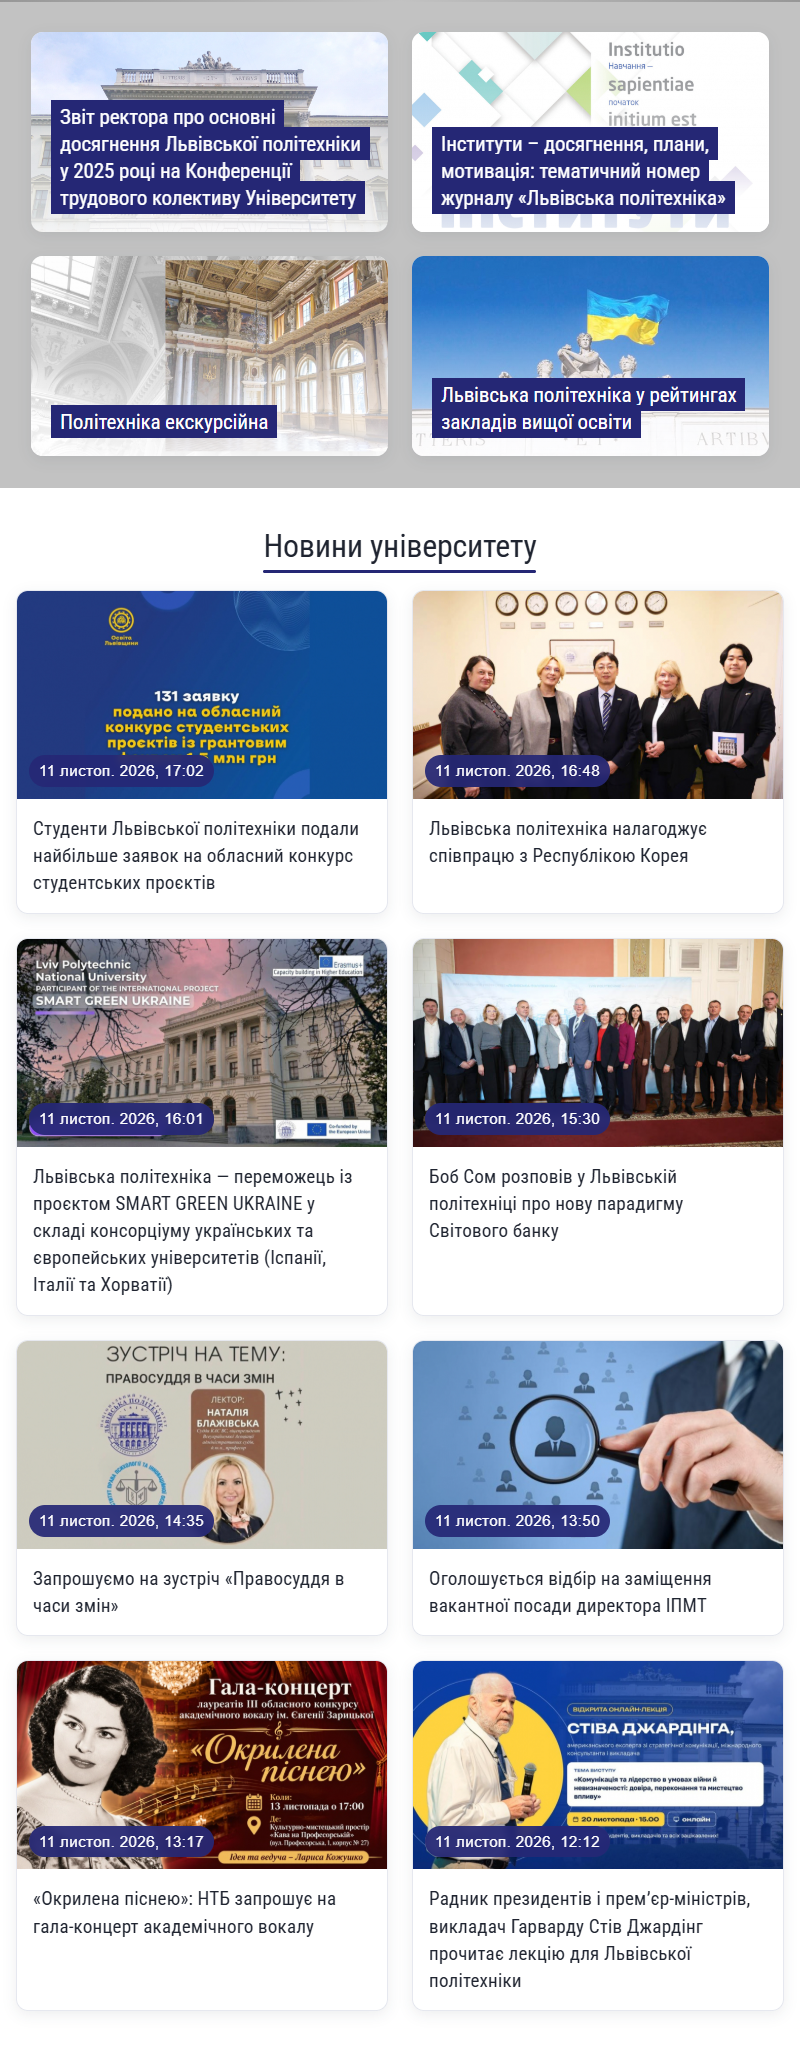
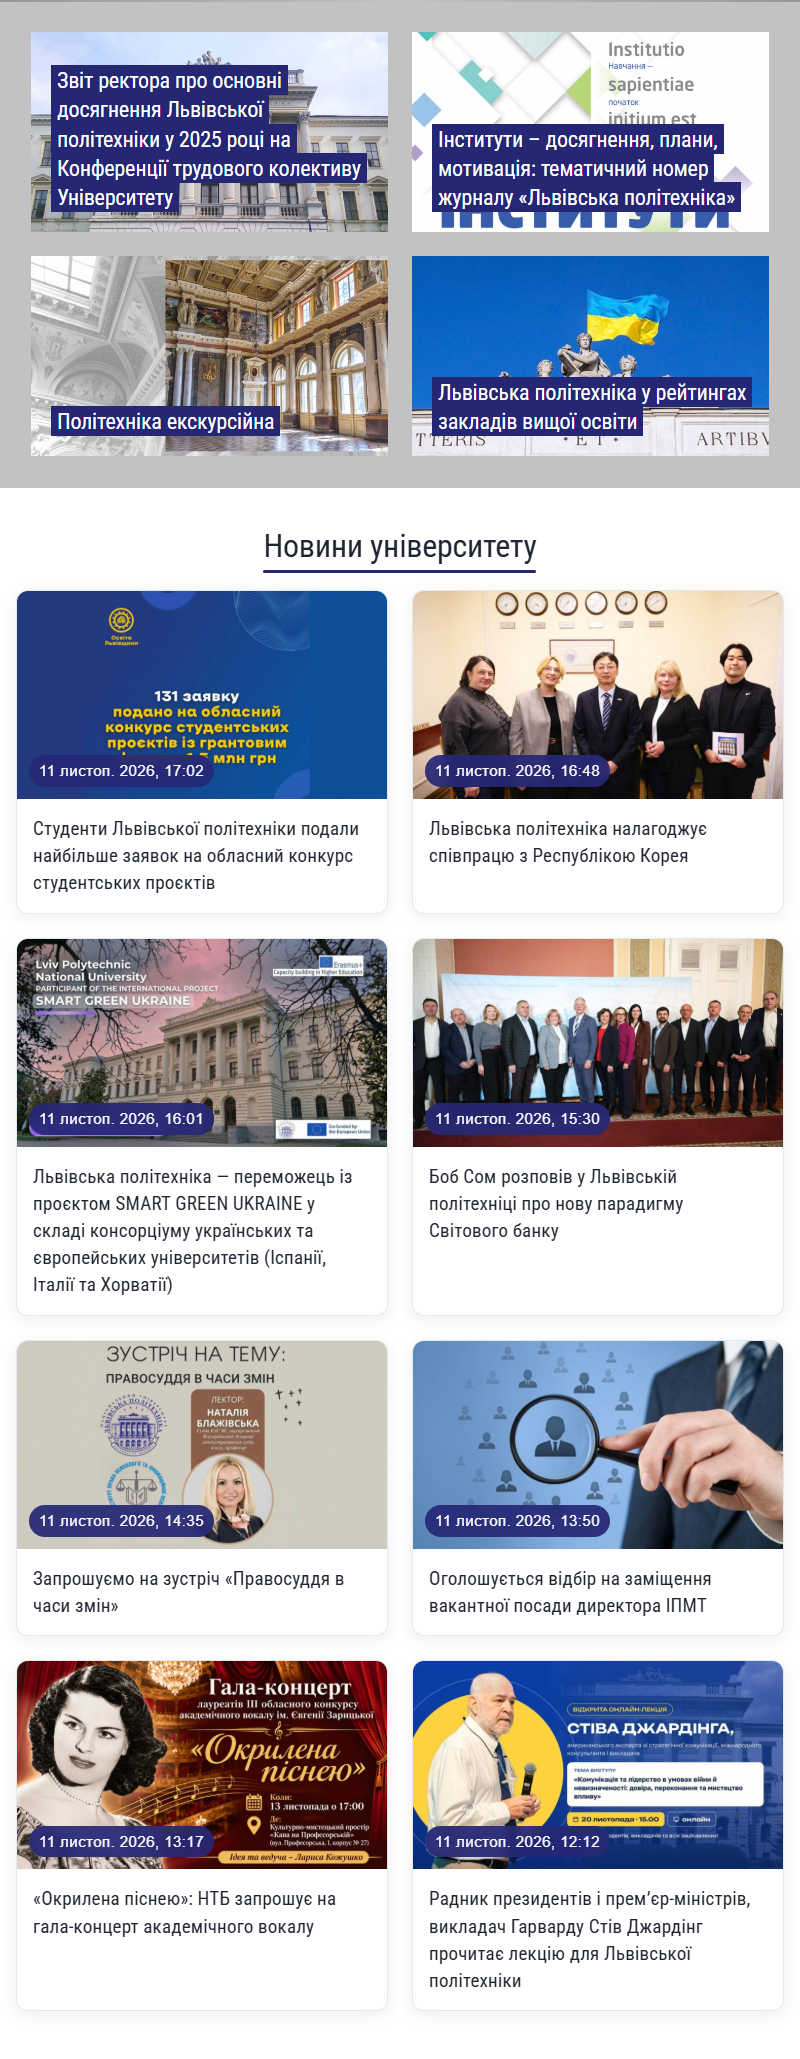
lab7: featured block as 2x2 grid, square cards like lpnu.ua

Changed region(s): [[0.0312, 0.0311, 0.9688, 0.2487]]

diff --git a/lab7/index.html b/lab7/index.html
@@ -6,6 +6,7 @@
     <meta name="viewport" content="width=device-width, initial-scale=1.0">
     <meta name="description" content="Новини, обрані матеріали та анонси Львівської політехніки.">
     <title>Новини Львівської політехніки</title>
+    <link rel="icon" href="data:,">
     <link rel="stylesheet" href="https://cdn.jsdelivr.net/npm/bootstrap@3.4.1/dist/css/bootstrap.min.css">
     <link rel="stylesheet"
         href="https://fonts.googleapis.com/css?family=Roboto+Condensed:regular,700&amp;subset=cyrillic,cyrillic-ext">
@@ -26,7 +27,6 @@
                        target="_blank" rel="noopener noreferrer">
                         <img src="img/featured-1.jpg" width="720" height="360"
                              alt="Фасад головного корпусу Львівської політехніки">
-                        <div class="shadow_featured" aria-hidden="true"></div>
                         <h2><span>Звіт ректора про основні досягнення Львівської політехніки у 2025 році на Конференції трудового колективу Університету</span></h2>
                     </a>
                 </article>
@@ -36,7 +36,6 @@
                        target="_blank" rel="noopener noreferrer">
                         <img src="img/featured-2.jpg" width="720" height="360"
                              alt="Заставка до тематичного номера журналу «Львівська політехніка»">
-                        <div class="shadow_featured" aria-hidden="true"></div>
                         <h2><span>Інститути – досягнення, плани, мотивація: тематичний номер журналу «Львівська політехніка»</span></h2>
                     </a>
                 </article>
@@ -44,7 +43,6 @@
                 <article class="featured-card">
                     <a href="https://lpnu.ua/news/politekhnika-ekskursiina" target="_blank" rel="noopener noreferrer">
                         <img src="img/featured-3.jpg" width="720" height="360" alt="Політехніка екскурсійна">
-                        <div class="shadow_featured" aria-hidden="true"></div>
                         <h2><span>Політехніка екскурсійна</span></h2>
                     </a>
                 </article>
@@ -54,7 +52,6 @@
                        target="_blank" rel="noopener noreferrer">
                         <img src="img/featured-4.jpg" width="720" height="360"
                              alt="Фронтон головного корпусу Львівської політехніки">
-                        <div class="shadow_featured" aria-hidden="true"></div>
                         <h2><span>Львівська політехніка у рейтингах закладів вищої освіти</span></h2>
                     </a>
                 </article>

diff --git a/lab7/css/styles.css b/lab7/css/styles.css
@@ -115,9 +115,7 @@ a:focus-visible {
     flex: 1 1 100%; /* mobile: 1 колонка */
     min-width: 0;
     overflow: hidden;
-    border-radius: var(--radius);
     background: #fff;
-    box-shadow: var(--shadow-sm);
     animation: card-fade-up .7s var(--ease) both;
 }
 
@@ -150,23 +148,14 @@ a:focus-visible {
     width: 100%;
     height: 100%;
     min-height: 200px;
+    aspect-ratio: 2 / 1;
     object-fit: cover;
-    opacity: .88;
+    opacity: 1;
     transition: opacity .5s var(--ease), transform .7s var(--ease);
 }
 
-/* градієнт під заголовком */
-.shadow_featured {
-    position: absolute;
-    right: 0;
-    bottom: 0;
-    left: 0;
-    height: 78%;
-    background: linear-gradient(to bottom, rgb(255 255 255 / 0%), rgb(255 255 255 / 85%));
-    pointer-events: none;
-    opacity: 1;
-    transition: opacity .5s var(--ease);
-}
+/* смуга-градієнт під заголовком більше не використовується:
+   заголовок лежить на суцільних плашках, як на lpnu.ua */
 
 .featured-card h2 {
     z-index: 1;
@@ -176,14 +165,14 @@ a:focus-visible {
     padding: 20px;
     color: #fff;
     font-family: 'Roboto Condensed', sans-serif;
-    font-size: clamp(1.15rem, 1.6vw, 1.5rem);
+    font-size: clamp(1.2rem, 2vw, 1.7rem);
     font-style: normal;
     font-weight: normal;
-    line-height: 1.3;
+    line-height: 1.35;
 }
 
 .featured-card h2 span {
-    padding: 4px 9px;
+    padding: 2px 6px;
     background: var(--brand);
     box-decoration-break: clone;
     -webkit-box-decoration-break: clone;
@@ -195,11 +184,6 @@ a:focus-visible {
 .featured-card > a:focus-visible img {
     opacity: 1;
     transform: scale(1.05);
-}
-
-.featured-card > a:hover .shadow_featured,
-.featured-card > a:focus-visible .shadow_featured {
-    opacity: .15;
 }
 
 .featured-card > a:hover h2 span,
@@ -383,12 +367,9 @@ main {
     }
 }
 
-/* Desktop: 1024px і більше — 4 колонки */
+/* Desktop: 1024px і більше — сітка новин 4 колонки,
+   блок featured залишається 2×2, як на lpnu.ua */
 @media (min-width: 1024px) {
-    .featured-card {
-        flex-basis: calc((100% - 3 * var(--gap)) / 4);
-    }
-
     .news-grid {
         grid-template-columns: repeat(4, minmax(0, 1fr));
     }

diff --git a/lab7/README.md b/lab7/README.md
@@ -21,7 +21,7 @@
 3. Додати медіа-запити для трьох брейкпоінтів (і для новин, і для header):
    - Mobile (до 767 px) — 1 колонка;
    - Tablet (768–1023 px) — 2 колонки;
-   - Desktop (1024 px і більше) — 4 колонки.
+   - Desktop (1024 px і більше) — 4 колонки для сітки новин; блок featured залишається 2×2, як на lpnu.ua.
 4. Додати посилання на `lab7/index.html` у меню головної сторінки лабораторних.
 5. Перевірити адаптивність у браузері, оформити звіт і дати відповіді на питання вихідного контролю.
 
@@ -67,7 +67,7 @@ lab7/
 }
 ```
 
-Усередині картки поєднано Flexbox і Grid: посилання є грід-контейнером із однією коміркою, у якій стеком лежать зображення, градієнт і заголовок:
+Усередині картки поєднано Flexbox і Grid: посилання є грід-контейнером із однією коміркою, у якій стеком лежать зображення й заголовок:
 
 ```css
 .featured-card > a {
@@ -85,7 +85,7 @@ lab7/
 }
 ```
 
-Це дозволяє заголовку бути притиснутим донизу, а картці — розтягуватися під довший текст без обрізання.
+Це дозволяє заголовку бути притиснутим донизу, а картці — розтягуватися під довший текст без обрізання. Картки мають прямі кути без тіней, як у блоці `header#featured_container` на lpnu.ua, а на планшеті й десктопі утворюють сітку 2×2.
 
 ### 4.2. Блок `main > div.main-container` — CSS Grid
 
@@ -111,9 +111,8 @@ lab7/
 
 Переходи (transitions):
 
-- зображення featured-картки: `opacity` та `transform` (масштабування при наведенні);
+- зображення featured-картки: `transform` (масштабування при наведенні);
 - фон заголовка `h2 span`: `background` (зміна кольору з `#252775` на `#00a1e4`);
-- градієнт `.shadow_featured`: `opacity`;
 - картки новин: `transform`, `box-shadow`, `border-color`;
 - заголовок розділу: анімоване підкреслення.
 
@@ -148,9 +147,9 @@ lab7/
     .news-grid { grid-template-columns: repeat(2, minmax(0, 1fr)); }
 }
 
-/* Desktop: 1024 px і більше — 4 колонки */
+/* Desktop: 1024 px і більше — сітка новин 4 колонки,
+   блок featured залишається 2×2 */
 @media (min-width: 1024px) {
-    .featured-card { flex-basis: calc((100% - 3 * var(--gap)) / 4); }
     .news-grid { grid-template-columns: repeat(4, minmax(0, 1fr)); }
 }
 ```
@@ -184,7 +183,7 @@ lab7/
 | Елемент | Мобільний | Десктоп |
 |---|---|---|
 | Основний текст | 18 px | 18 px |
-| Заголовок featured-картки | 20.7 px | 22.4 px |
+| Заголовок featured-картки | 21.6 px | 28 px |
 | Заголовок «Новини університету» | 31.5 px | 42 px |
 | Заголовок новини | 19.4 px | 19.4 px |
 | Дата новини | 15.3 px | 15.3 px |
@@ -199,8 +198,8 @@ lab7/
 | 767 px | 1 колонка (4 рядки) | 1 колонка (8 рядків) | немає |
 | 768 px | 2 колонки (2 рядки) | 2 колонки (4 рядки) | немає |
 | 1023 px | 2 колонки (2 рядки) | 2 колонки (4 рядки) | немає |
-| 1024 px | 4 колонки (1 рядок) | 4 колонки (2 рядки) | немає |
-| 1440 px | 4 колонки (1 рядок) | 4 колонки (2 рядки) | немає |
+| 1024 px | 2 колонки (2 рядки) | 4 колонки (2 рядки) | немає |
+| 1440 px | 2 колонки (2 рядки) | 4 колонки (2 рядки) | немає |
 
 Додатково перевірено:
 
@@ -252,7 +251,7 @@ lab7/
 
 - **Mobile:** до 767 px — 1 колонка (базові стилі без медіа-запиту);
 - **Tablet:** 768–1023 px — 2 колонки (`@media (min-width: 768px)`);
-- **Desktop:** 1024 px і більше — 4 колонки (`@media (min-width: 1024px)`).
+- **Desktop:** 1024 px і більше — сітка новин 4 колонки (`@media (min-width: 1024px)`), блок featured — 2 колонки (2×2).
 
 Окремо додано `@media (prefers-reduced-motion: reduce)` для вимкнення анімацій, але це не брейкпоінт ширини екрана.
 
@@ -263,7 +262,7 @@ lab7/
 - `grid-template-columns: repeat(2, minmax(0, 1fr))` — дві колонки на планшетах;
 - `grid-template-columns: repeat(4, minmax(0, 1fr))` — чотири колонки на десктопі;
 - `gap: 24px` — відстані між рядками й колонками;
-- `grid-template-areas: "card"` та `grid-area: card` — накладання зображення, градієнта й заголовка в одній комірці featured-картки;
+- `grid-template-areas: "card"` та `grid-area: card` — накладання зображення й заголовка в одній комірці featured-картки;
 - `align-self: end` — притискання заголовка до нижнього краю картки;
 - `minmax(0, 1fr)` — запобігання переповненню колонок довгим текстом.
 
@@ -271,7 +270,7 @@ lab7/
 
 У ході лабораторної роботи відтворено фрагмент головної сторінки lpnu.ua: блок обраних новин `header#featured_container` і блок «Новини університету» в `main > div.main-container`. Для header використано Flexbox, що забезпечило гнучке вирівнювання карток, рівномірний розподіл простору та коректне перенесення на новий рядок. Для сітки новин застосовано CSS Grid, завдяки чому вдалося побудувати адаптивну сітку без floats і clearfix.
 
-Додано три брейкпоінти (1/2/4 колонки), transitions та keyframe-анімації, а також підтримку `prefers-reduced-motion`. Перевірка в браузері підтвердила коректну роботу на ширинах від 320 до 1440 px: кількість колонок змінюється згідно з завданням, горизонтальний скрол відсутній, зображення завантажуються, помилок у консолі немає.
+Додано три брейкпоінти (сітка новин — 1/2/4 колонки, блок featured — 1/2/2), transitions та keyframe-анімації, а також підтримку `prefers-reduced-motion`. Перевірка в браузері підтвердила коректну роботу на ширинах від 320 до 1440 px: кількість колонок змінюється згідно з завданням, горизонтальний скрол відсутній, зображення завантажуються, помилок у консолі немає.
 
 ## 8. Перелік посилань
 
